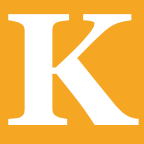
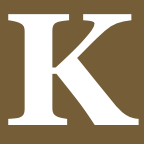
Brown style

diff --git a/public/css/hyde.css b/public/css/hyde.css
@@ -249,13 +249,13 @@ a.sidebar-nav-item:focus {
   color: #8f5536;
 }
 
-/* AK Orange */
+/* AK Brown */
 .my-theme .sidebar {
-  background-color: #F5A623;
+  background-color: #745D37;
 }
 .my-theme .content a,
 .my-theme .related-posts li a:hover {
-  color: #F5A623;
+  color: #745D37;
 }
 
 /*Custom style*/
